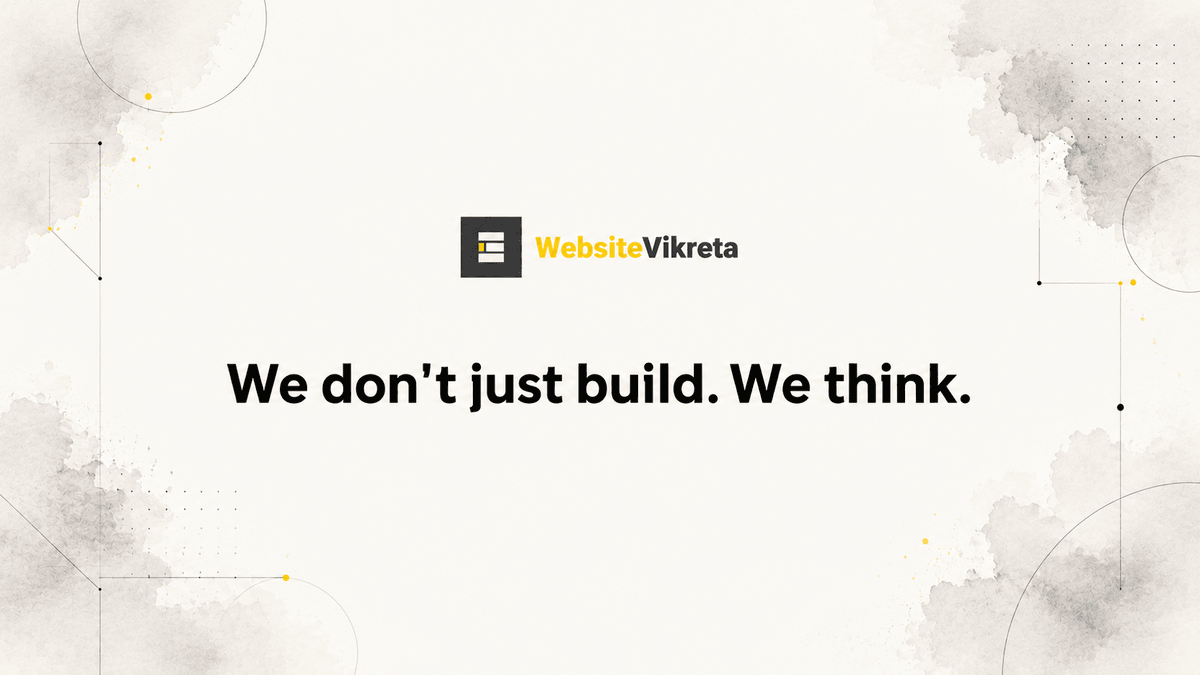
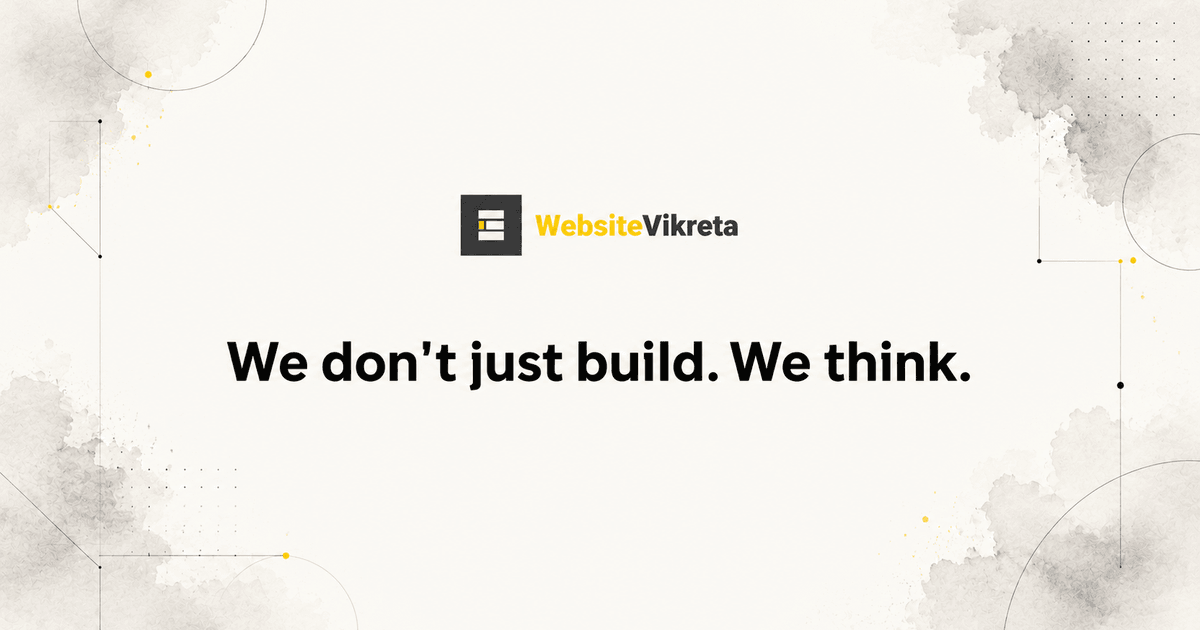
fix(seo): crop OG image to 1200x630 and update every page's metadata
Was 1200x675; platforms crop non-standard cards. Content is centred, so 22px
off the top and 23px off the bottom is empty background. Removes the stale
"add og-image.png" TODOs.

diff --git a/app/blog/[slug]/[postSlug]/page.tsx b/app/blog/[slug]/[postSlug]/page.tsx
@@ -96,7 +96,7 @@ export async function generateMetadata({
                     alt: post.title,
                   },
                 ]
-              : [{ url: '/og-image.png', width: 1200, height: 675 }],
+              : [{ url: '/og-image.png', width: 1200, height: 630 }],
           },
           twitter: {
             card: 'summary_large_image',
@@ -136,7 +136,7 @@ export async function generateMetadata({
         {
           url: '/og-image.png',
           width: 1200,
-          height: 675,
+          height: 630,
           alt: post.title,
         },
       ],

diff --git a/app/careers/page.tsx b/app/careers/page.tsx
@@ -15,7 +15,7 @@ export const metadata: Metadata = {
     siteName: 'WebsiteVikreta',
     type: 'website',
     locale: 'en_IN',
-    images: [{ url: '/og-image.png', width: 1200, height: 675, alt: 'Careers at Website Vikreta' }],
+    images: [{ url: '/og-image.png', width: 1200, height: 630, alt: 'Careers at Website Vikreta' }],
   },
   twitter: { card: 'summary_large_image', title: 'Careers | Website Vikreta', description: 'Open internship roles in Pune.', images: ['/og-image.png'] },
   alternates: { canonical: `${SITE_URL}/careers` },

diff --git a/app/page.tsx b/app/page.tsx
@@ -104,13 +104,12 @@ export const metadata: Metadata = {
     siteName: 'Website Vikreta',
     type: 'website',
     locale: 'en_IN',
-    // TODO: add public/og-image.png (1200x630) to enable OG image previews
     // Brand: cream/off-white background, black text, #FFBF00 yellow accent
     images: [
       {
         url: '/og-image.png',
         width: 1200,
-        height: 675,
+        height: 630,
         alt: 'Website Vikreta | AI-First Web Agency',
       },
     ],

diff --git a/app/careers/[slug]/page.tsx b/app/careers/[slug]/page.tsx
@@ -23,7 +23,7 @@ export async function generateMetadata({ params }: { params: Promise<{ slug: str
       description: opening.metaDescription ?? opening.shortDescription,
       url: `${SITE_URL}/careers/${slug}`,
       siteName: 'WebsiteVikreta',
-      images: [{ url: '/og-image.png', width: 1200, height: 675 }],
+      images: [{ url: '/og-image.png', width: 1200, height: 630 }],
     },
     alternates: { canonical: `${SITE_URL}/careers/${slug}` },
   }

diff --git a/app/contact/page.tsx b/app/contact/page.tsx
@@ -21,13 +21,12 @@ export const metadata: Metadata = {
     siteName: 'Website Vikreta',
     type: 'website',
     locale: 'en_IN',
-    // TODO: add public/og-image.png (1200x630px)
     // Brand: cream/off-white background, black text, #FFBF00 yellow accent
     images: [
       {
         url: '/og-image.png',
         width: 1200,
-        height: 675,
+        height: 630,
         alt: 'Contact Website Vikreta | AI-First Web Agency',
       },
     ],

diff --git a/app/work/[slug]/page.tsx b/app/work/[slug]/page.tsx
@@ -46,7 +46,7 @@ export async function generateMetadata({ params }: PageProps): Promise<Metadata>
           : {
               url: '/og-image.png',
               width: 1200,
-              height: 675,
+              height: 630,
               alt: `${study.company} case study`,
             },
       ],

diff --git a/app/services/ai-automations/page.tsx b/app/services/ai-automations/page.tsx
@@ -54,7 +54,7 @@ export const metadata: Metadata = {
       {
         url: '/og-image.png',
         width: 1200,
-        height: 675,
+        height: 630,
         alt: 'AI Automation Agency for Business Workflows | Website Vikreta',
       },
     ],

diff --git a/app/services/web-mobile-app-development/page.tsx b/app/services/web-mobile-app-development/page.tsx
@@ -61,7 +61,7 @@ export const metadata: Metadata = {
       {
         url: '/og-image.png',
         width: 1200,
-        height: 675,
+        height: 630,
         alt: 'Custom Web & Mobile App Development Company | Website Vikreta',
       },
     ],

diff --git a/app/services/page.tsx b/app/services/page.tsx
@@ -25,7 +25,7 @@ export const metadata: Metadata = {
       {
         url: '/og-image.png',
         width: 1200,
-        height: 675,
+        height: 630,
         alt: 'Website Vikreta Services | AI Automation & Web Development',
       },
     ],

diff --git a/app/blog/page.tsx b/app/blog/page.tsx
@@ -53,7 +53,7 @@ export const metadata: Metadata = {
       {
         url: '/og-image.png',
         width: 1200,
-        height: 675,
+        height: 630,
         alt: 'Website Vikreta Blog | AI Automation & Web Development',
       },
     ],

diff --git a/app/faq/page.tsx b/app/faq/page.tsx
@@ -25,7 +25,7 @@ export const metadata: Metadata = {
       {
         url: '/og-image.png',
         width: 1200,
-        height: 675,
+        height: 630,
         alt: 'Website Vikreta FAQ | AI Automation & Web Development',
       },
     ],

diff --git a/app/services/digital-marketing/page.tsx b/app/services/digital-marketing/page.tsx
@@ -60,7 +60,7 @@ export const metadata: Metadata = {
       {
         url: '/og-image.png',
         width: 1200,
-        height: 675,
+        height: 630,
         alt: 'Digital Marketing, SEO & GEO Agency | Website Vikreta',
       },
     ],
